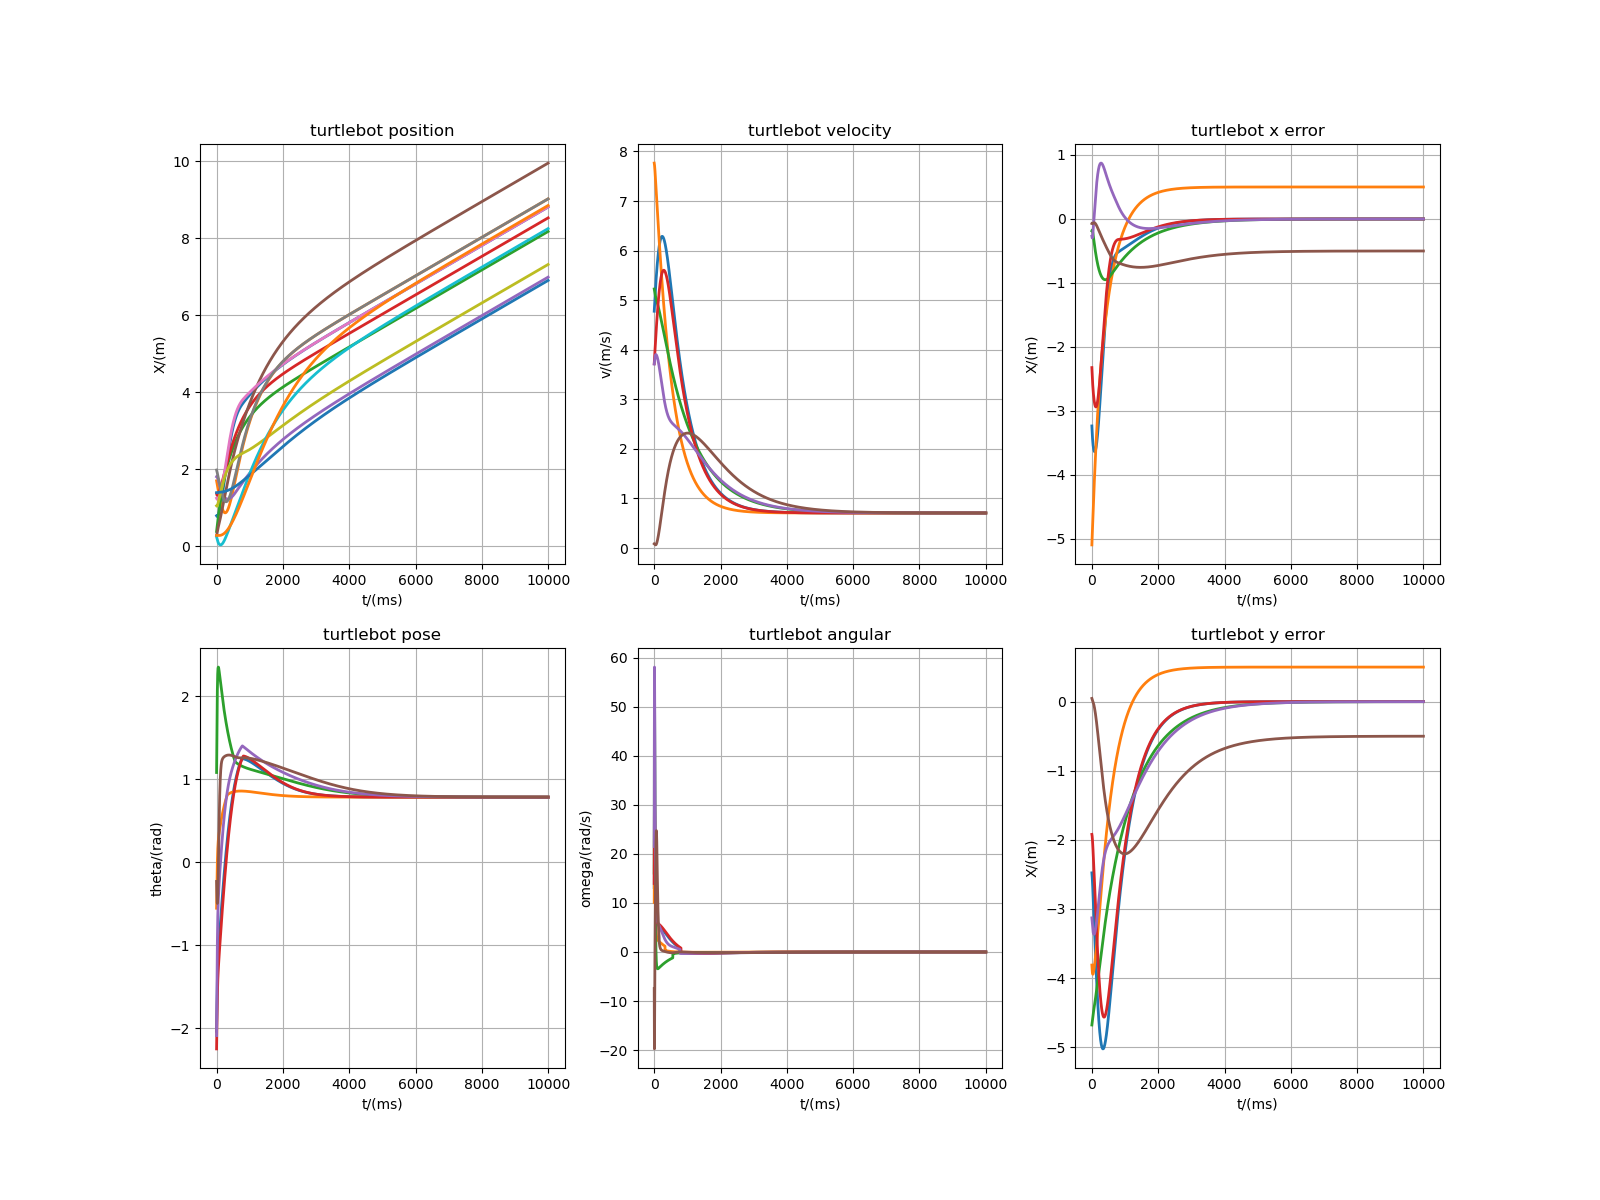
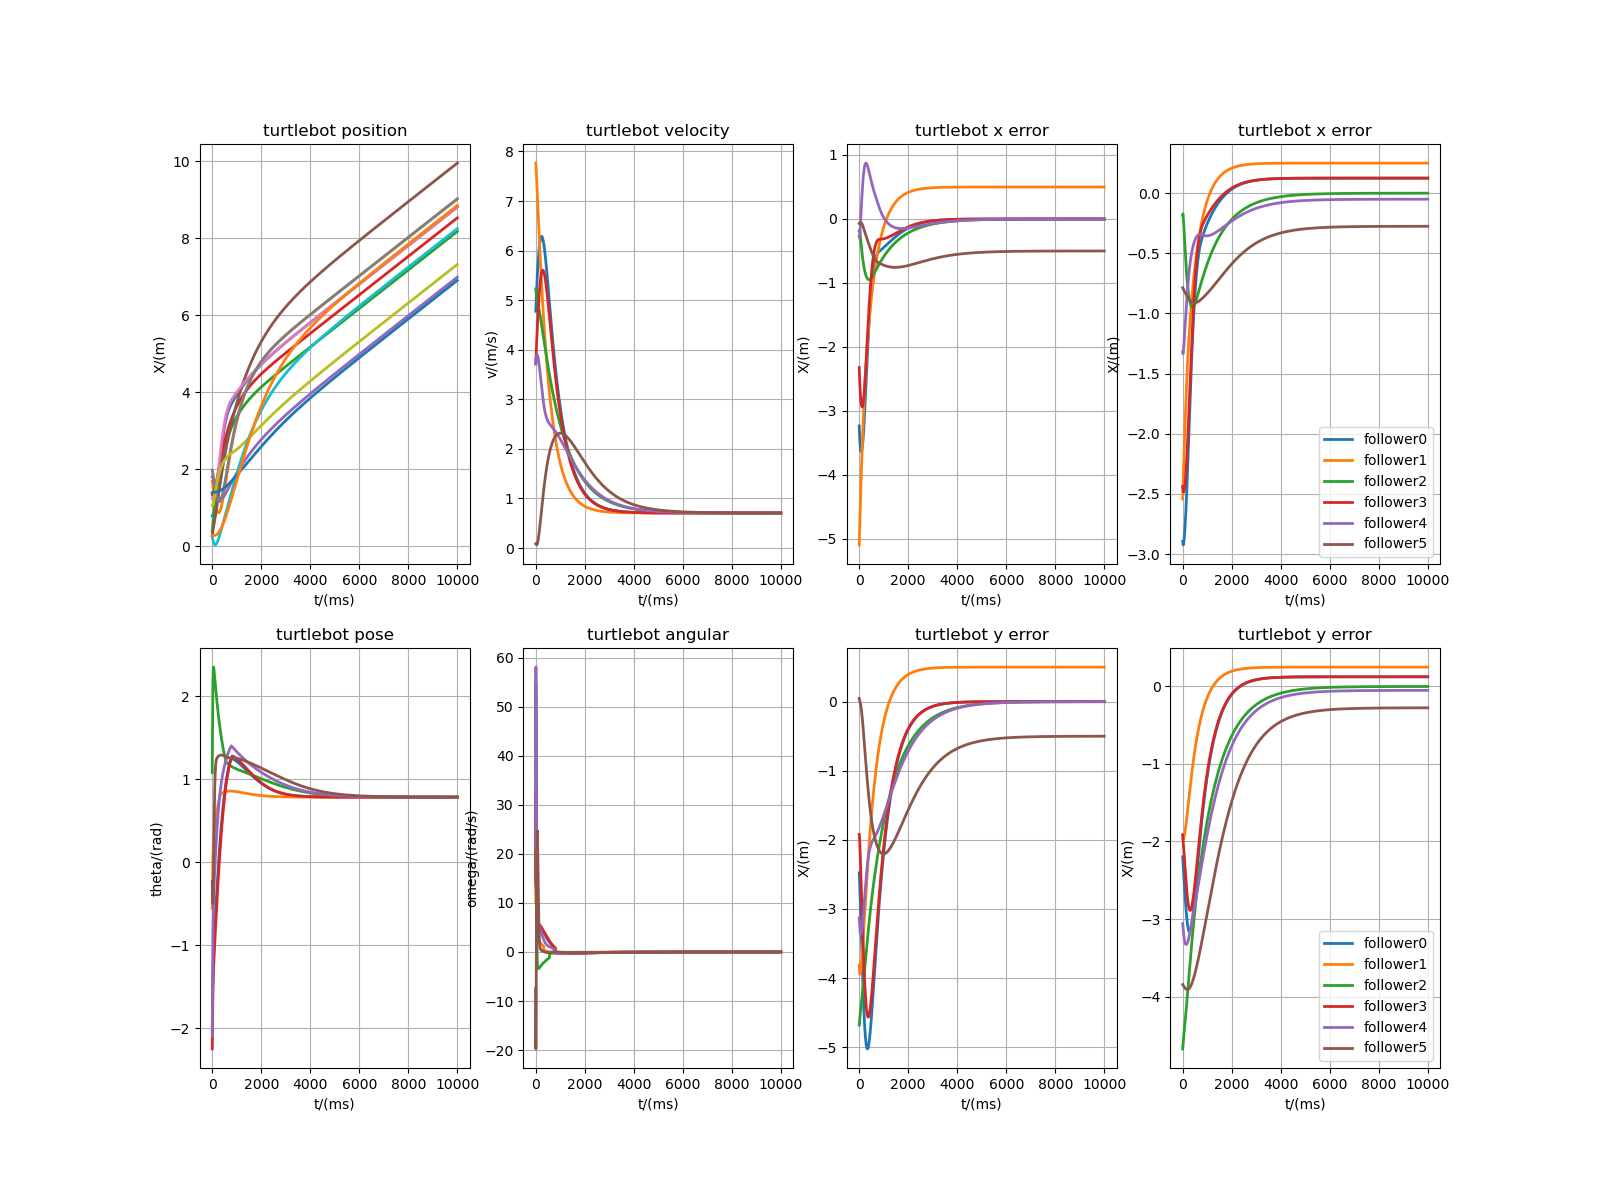
add 非线性非完整约束 file

diff --git a/containment/containment11非线性非完整约束离散化-领导者移动+时延.py b/containment/containment11非线性非完整约束离散化-领导者移动+时延.py
@@ -62,18 +62,24 @@ A_F = np.array([[0,1,0,0,0,0],
                 [0,1,0,0,0,0],
                 [1,0,0,0,0,1],
                 [0,0,1,0,1,0]])   # 跟随者邻接矩阵
+L = - A_F
+for i in range(num_follower):
+    L[i,i] = np.sum(A_F[i,:])
 B = np.array([[1,0,0,0,0,0],
               [0,2,0,0,0,0],
               [0,0,1,0,0,0],
               [0,0,0,1,0,0],
               [0,0,0,0,1,0],
               [0,0,0,0,0,0]])   # 跟随者能接受到的领导者信息总和
+L1 = L + B
 A_LF = np.array([[1,0,0,0],
                  [0,1,1,0],
                  [0,0,0,1],
                  [1,0,0,0],
                  [0,1,0,0],
                  [0,0,0,0]])    # 领导者和跟随者的耦合邻接矩阵
+L2 = - A_LF
+xishu = np.dot(np.linalg.inv(L1), L2)
 
 # 再写有时延的版本，稍后把时变的时延加到循环中
 tau = np.array([[0.009, 0.010, 0.002, 0.004, 0.002, 0.009],
@@ -111,6 +117,8 @@ rx_history = []
 ry_history = []
 hat_ex_history = []
 hat_ey_history = []
+errx_actual_history = []
+erry_actual_history = []
 
 for i in range(dmax):
     x_history.append(x)
@@ -180,6 +188,9 @@ for k in range(iter):
     for i in range(num_leader):
         rx[i] = rx[i] + dot_rx[i] * T
         ry[i] = ry[i] + dot_ry[i] * T
+
+    errx_actual = x + np.dot(xishu, rx)
+    erry_actual = y + np.dot(xishu, ry)
     
     # print(x)
     # print(x, '\n', y, '\n', theta)
@@ -192,6 +203,8 @@ for k in range(iter):
     ry_history.append([ry[0],ry[1],ry[2],ry[3]])
     hat_ex_history.append([-hat_ex[0],-hat_ex[1],-hat_ex[2],-hat_ex[3],-hat_ex[4],-hat_ex[5]])
     hat_ey_history.append([-hat_ey[0],-hat_ey[1],-hat_ey[2],-hat_ey[3],-hat_ey[4],-hat_ey[5]])
+    errx_actual_history.append([errx_actual[0],errx_actual[1],errx_actual[2],errx_actual[3],errx_actual[4],errx_actual[5]])
+    erry_actual_history.append([erry_actual[0],erry_actual[1],erry_actual[2],erry_actual[3],erry_actual[4],erry_actual[5]])
 
 x_history = np.array(x_history)
 y_history = np.array(y_history)
@@ -202,10 +215,12 @@ v_history = np.array(v_history)
 omega_history = np.array(omega_history)
 hat_ex_history = np.array(hat_ex_history)
 hat_ey_history = np.array(hat_ey_history)
+errx_actual_history = np.array(errx_actual_history)
+erry_actual_history = np.array(erry_actual_history)
 
 # --------------------------------------------------------------------------------------------
 plt.subplots(figsize=(16, 12))
-plt.subplot(2, 3, 1)
+plt.subplot(2, 4, 1)
 plt.grid()
 for k in range(num_follower):   # 绘制轨迹和速度向量
     plt.plot(x_history[:,k], lw=2)
@@ -214,7 +229,7 @@ plt.title('turtlebot position')    # 设置图形标题和坐标轴标签
 plt.xlabel('t/(ms)')
 plt.ylabel('X/(m)')
 # --------------------------------------------------------------------------------------------
-plt.subplot(2, 3, 4)
+plt.subplot(2, 4, 5)
 plt.grid()
 for k in range(num_follower):   # 绘制轨迹和速度向量
     plt.plot(theta_history[:,k], lw=2)
@@ -222,21 +237,21 @@ plt.title('turtlebot pose')    # 设置图形标题和坐标轴标签
 plt.xlabel('t/(ms)')
 plt.ylabel('theta/(rad)')
 # --------------------------------------------------------------------------------------------
-plt.subplot(2, 3, 2)
+plt.subplot(2, 4, 2)
 plt.grid()
 plt.plot(v_history, lw=2)
 plt.title('turtlebot velocity')    # 设置图形标题和坐标轴标签
 plt.xlabel('t/(ms)')
 plt.ylabel('v/(m/s)')
 # --------------------------------------------------------------------------------------------
-plt.subplot(2, 3, 5)
+plt.subplot(2, 4, 6)
 plt.grid()
 plt.plot(omega_history, lw=2)
 plt.title('turtlebot angular')    # 设置图形标题和坐标轴标签
 plt.xlabel('t/(ms)')
 plt.ylabel('omega/(rad/s)')
 # --------------------------------------------------------------------------------------------
-plt.subplot(2, 3, 3)
+plt.subplot(2, 4, 3)
 plt.grid()
 for i in range(num_follower):
     plt.plot(hat_ex_history[:,i], lw=2, label=f"follower{i}")
@@ -245,10 +260,28 @@ plt.title('turtlebot x error')    # 设置图形标题和坐标轴标签
 plt.xlabel('t/(ms)')
 plt.ylabel('X/(m)')
 # --------------------------------------------------------------------------------------------
-plt.subplot(2, 3, 6)
+plt.subplot(2, 4, 7)
 plt.grid()
 for i in range(num_follower):
     plt.plot(hat_ey_history[:,i], lw=2, label=f"follower{i}")
+plt.legend()# 添加图例
+plt.title('turtlebot y error')    # 设置图形标题和坐标轴标签
+plt.xlabel('t/(ms)')
+plt.ylabel('X/(m)')
+# --------------------------------------------------------------------------------------------
+plt.subplot(2, 4, 4)
+plt.grid()
+for i in range(num_follower):
+    plt.plot(errx_actual_history[:,i], lw=2, label=f"follower{i}")
+plt.legend()# 添加图例
+plt.title('turtlebot x error')    # 设置图形标题和坐标轴标签
+plt.xlabel('t/(ms)')
+plt.ylabel('X/(m)')
+# --------------------------------------------------------------------------------------------
+plt.subplot(2, 4, 8)
+plt.grid()
+for i in range(num_follower):
+    plt.plot(erry_actual_history[:,i], lw=2, label=f"follower{i}")
 plt.legend()# 添加图例
 plt.title('turtlebot y error')    # 设置图形标题和坐标轴标签
 plt.xlabel('t/(ms)')

diff --git a/containment/containment10非线性非完整约束离散化-领导者移动.py b/containment/containment10非线性非完整约束离散化-领导者移动.py
@@ -62,18 +62,24 @@ A_F = np.array([[0,1,0,0,0,0],
                 [0,1,0,0,0,0],
                 [1,0,0,0,0,1],
                 [0,0,1,0,1,0]])   # 跟随者邻接矩阵
+L = - A_F
+for i in range(num_follower):
+    L[i,i] = np.sum(A_F[i,:])
 B = np.array([[1,0,0,0,0,0],
               [0,2,0,0,0,0],
               [0,0,1,0,0,0],
               [0,0,0,1,0,0],
               [0,0,0,0,1,0],
               [0,0,0,0,0,0]])   # 跟随者能接受到的领导者信息总和
+L1 = L + B
 A_LF = np.array([[1,0,0,0],
                  [0,1,1,0],
                  [0,0,0,1],
                  [1,0,0,0],
                  [0,1,0,0],
                  [0,0,0,0]])    # 领导者和跟随者的耦合邻接矩阵
+L2 = - A_LF
+xishu = np.dot(np.linalg.inv(L1), L2)
 
 # 先写没有时延的版本
 
@@ -97,6 +103,8 @@ rx_history = []
 ry_history = []
 hat_ex_history = []
 hat_ey_history = []
+errx_actual_history = []
+erry_actual_history = []
 
 for k in range(iter):
     hat_ex = [0,0,0,0,0,0]
@@ -159,6 +167,9 @@ for k in range(iter):
         rx[i] = rx[i] + dot_rx[i] * T
         ry[i] = ry[i] + dot_ry[i] * T
     
+    errx_actual = x + np.dot(xishu, rx)
+    erry_actual = y + np.dot(xishu, ry)
+
     # print(x)
     # print(x, '\n', y, '\n', theta)
     x_history.append([x[0],x[1],x[2],x[3],x[4],x[5]])
@@ -170,6 +181,8 @@ for k in range(iter):
     ry_history.append([ry[0],ry[1],ry[2],ry[3]])
     hat_ex_history.append([-hat_ex[0],-hat_ex[1],-hat_ex[2],-hat_ex[3],-hat_ex[4],-hat_ex[5]])
     hat_ey_history.append([-hat_ey[0],-hat_ey[1],-hat_ey[2],-hat_ey[3],-hat_ey[4],-hat_ey[5]])
+    errx_actual_history.append([errx_actual[0],errx_actual[1],errx_actual[2],errx_actual[3],errx_actual[4],errx_actual[5]])
+    erry_actual_history.append([erry_actual[0],erry_actual[1],erry_actual[2],erry_actual[3],erry_actual[4],erry_actual[5]])
 
 
 x_history = np.array(x_history)
@@ -179,9 +192,12 @@ ry_history = np.array(ry_history)
 theta_history = np.array(theta_history)
 v_history = np.array(v_history)
 omega_history = np.array(omega_history)
+errx_actual_history = np.array(errx_actual_history)
+erry_actual_history = np.array(erry_actual_history)
+
 # --------------------------------------------------------------------------------------------
 plt.subplots(figsize=(16, 12))
-plt.subplot(2, 3, 1)
+plt.subplot(2, 4, 1)
 plt.grid()
 for k in range(num_follower):   # 绘制轨迹和速度向量
     plt.plot(x_history[:,k], lw=2)
@@ -190,7 +206,7 @@ plt.title('turtlebot position')    # 设置图形标题和坐标轴标签
 plt.xlabel('t/(ms)')
 plt.ylabel('X/(m)')
 # --------------------------------------------------------------------------------------------
-plt.subplot(2, 3, 4)
+plt.subplot(2, 4, 5)
 plt.grid()
 for k in range(num_follower):   # 绘制轨迹和速度向量
     plt.plot(theta_history[:,k], lw=2)
@@ -198,30 +214,48 @@ plt.title('turtlebot pose')    # 设置图形标题和坐标轴标签
 plt.xlabel('t/(ms)')
 plt.ylabel('theta/(rad)')
 # --------------------------------------------------------------------------------------------
-plt.subplot(2, 3, 2)
+plt.subplot(2, 4, 2)
 plt.grid()
 plt.plot(v_history, lw=2)
 plt.title('turtlebot velocity')    # 设置图形标题和坐标轴标签
 plt.xlabel('t/(ms)')
 plt.ylabel('v/(m/s)')
 # --------------------------------------------------------------------------------------------
-plt.subplot(2, 3, 5)
+plt.subplot(2, 4, 6)
 plt.grid()
 plt.plot(omega_history, lw=2)
 plt.title('turtlebot angular')    # 设置图形标题和坐标轴标签
 plt.xlabel('t/(ms)')
 plt.ylabel('omega/(rad/s)')
 # --------------------------------------------------------------------------------------------
-plt.subplot(2, 3, 3)
+plt.subplot(2, 4, 3)
 plt.grid()
 plt.plot(hat_ex_history, lw=2)
 plt.title('turtlebot x error')    # 设置图形标题和坐标轴标签
 plt.xlabel('t/(ms)')
 plt.ylabel('X/(m)')
 # --------------------------------------------------------------------------------------------
-plt.subplot(2, 3, 6)
+plt.subplot(2, 4, 7)
 plt.grid()
 plt.plot(hat_ey_history, lw=2)
+plt.title('turtlebot y error')    # 设置图形标题和坐标轴标签
+plt.xlabel('t/(ms)')
+plt.ylabel('X/(m)')
+# --------------------------------------------------------------------------------------------
+plt.subplot(2, 4, 4)
+plt.grid()
+for i in range(num_follower):
+    plt.plot(errx_actual_history[:,i], lw=2, label=f"follower{i}")
+plt.legend()# 添加图例
+plt.title('turtlebot x error')    # 设置图形标题和坐标轴标签
+plt.xlabel('t/(ms)')
+plt.ylabel('X/(m)')
+# --------------------------------------------------------------------------------------------
+plt.subplot(2, 4, 8)
+plt.grid()
+for i in range(num_follower):
+    plt.plot(erry_actual_history[:,i], lw=2, label=f"follower{i}")
+plt.legend()# 添加图例
 plt.title('turtlebot y error')    # 设置图形标题和坐标轴标签
 plt.xlabel('t/(ms)')
 plt.ylabel('X/(m)')
